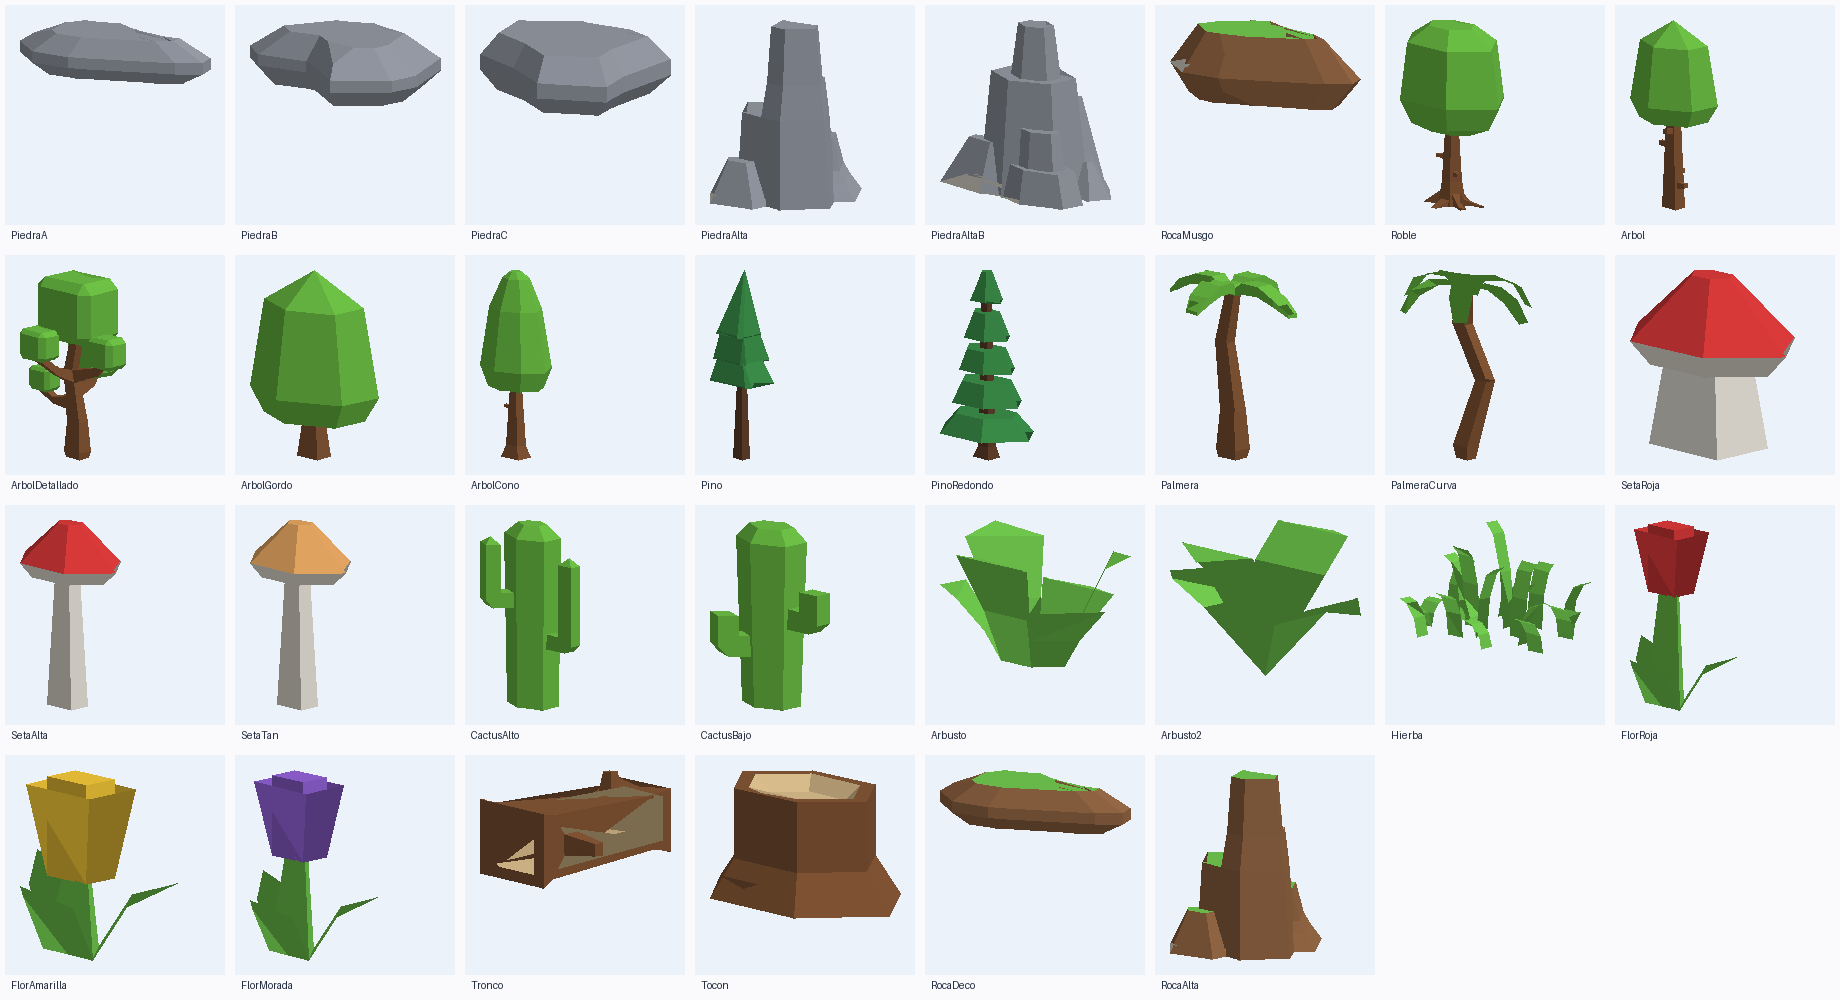
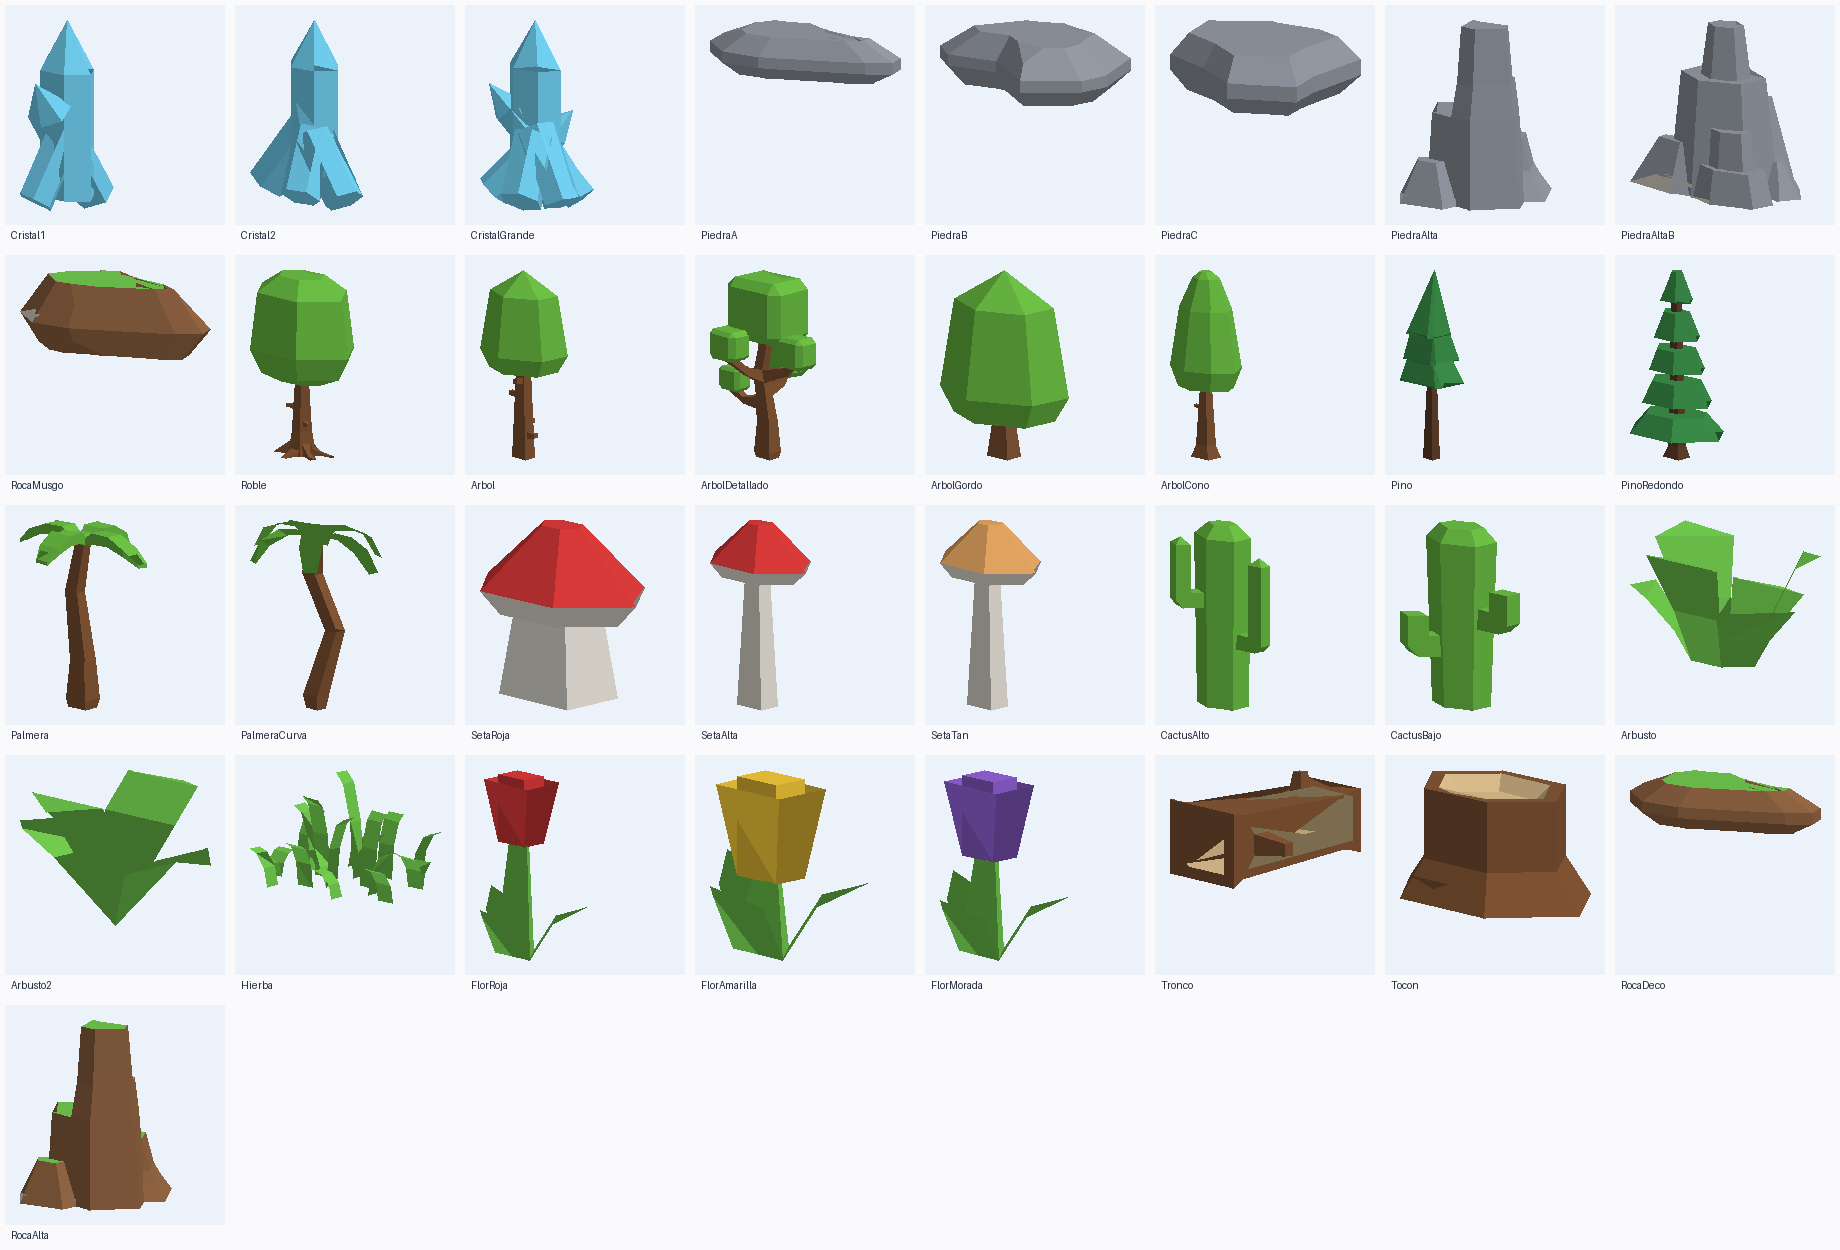
Crías Míticas: vuelven los cristales, ahora en racimos con punta y sin base (modelos 3D y versión de piezas)
Claude-Session: https://claude.ai/code/session_01TK9z3JhdpesQ8a3fbhWHzn

diff --git a/roblox-crias-miticas/tools/modelos/construir_pack.py b/roblox-crias-miticas/tools/modelos/construir_pack.py
@@ -24,8 +24,10 @@ CACHE = os.path.join(RAIZ, "tools", "out", "kenney_nature")
 URL = "https://kenney.nl/media/pages/assets/nature-kit/37ac38a37b-1677698939/kenney_nature-kit.zip"
 ESCALA = 10  # Kenney mide en metros pequeños: ×10 para que en Studio no salgan diminutos (el juego reescala igual)
 
-# alias en el juego → archivo de Kenney
+# alias en el juego → archivo de Kenney (o generado aquí: los cristales)
 MODELOS = {
+    # Cristales que rompen las crías (generados: prismas hexagonales con punta, en racimo)
+    "Cristal1": ("gen", 3, 11), "Cristal2": ("gen", 5, 22), "CristalGrande": ("gen", 7, 33),
     # Rocas que rompen las crías (sustituyen a los cristales)
     "PiedraA": "stone_largeA", "PiedraB": "stone_largeC", "PiedraC": "stone_largeE",
     "PiedraAlta": "stone_tallA", "PiedraAltaB": "stone_tallB", "RocaMusgo": "rock_largeB",
@@ -48,8 +50,34 @@ COLORES = {
     "leafsGreen": (110, 195, 70), "leafsDark": (60, 145, 75), "grass": (115, 205, 80), "dirt": (150, 105, 70),
     "woodBark": (135, 88, 55), "woodBarkDark": (100, 66, 45), "woodInner": (225, 195, 145), "stone": (150, 155, 165),
     "_defaultMat": (240, 235, 225), "colorRed": (225, 60, 60), "colorTan": (235, 170, 100), "colorYellow": (250, 205, 60),
-    "colorPurple": (150, 100, 220),
+    "colorPurple": (150, 100, 220), "crystal": (120, 220, 255),
 }
+
+
+def cristal(n: int, semilla: int):
+    """Racimo de n cristales: prisma de 6 caras + punta, el central más alto, los demás inclinados hacia fuera."""
+    rng = np.random.default_rng(semilla)
+    mallas = []
+    for k in range(n):
+        h = rng.uniform(2.0, 2.4) if k == 0 else rng.uniform(1.2, 1.9)
+        r = 0.45 if k == 0 else rng.uniform(0.28, 0.38)
+        cuerpo = trimesh.creation.cylinder(radius=r, height=h, sections=6)
+        punta = trimesh.creation.cone(radius=r, height=r * 1.8, sections=6)
+        punta.apply_translation([0, 0, h / 2])
+        c = trimesh.util.concatenate([cuerpo, punta])
+        c.apply_translation([0, 0, h / 2])  # base en z = 0
+        c.apply_transform(trimesh.transformations.rotation_matrix(math.radians(-90), [1, 0, 0]))  # z → y (de pie)
+        c.apply_transform(trimesh.transformations.rotation_matrix(rng.uniform(0, math.pi), [0, 1, 0]))
+        if k > 0:
+            ang = k / (n - 1) * 2 * math.pi + rng.uniform(-0.3, 0.3)
+            eje = [math.cos(ang + math.pi / 2), 0, math.sin(ang + math.pi / 2)]
+            c.apply_transform(trimesh.transformations.rotation_matrix(math.radians(rng.uniform(28, 42)), eje))
+            d = rng.uniform(0.6, 0.85)
+            c.apply_translation([math.cos(ang) * d, -0.05, math.sin(ang) * d])
+        mallas.append(c)
+    m = trimesh.util.concatenate(mallas)
+    m.visual = trimesh.visual.TextureVisuals(material=trimesh.visual.material.PBRMaterial(name="crystal", baseColorFactor=[120, 220, 255, 255]))
+    return [("crystal", m)]
 
 
 def descargar() -> str:
@@ -102,7 +130,7 @@ def main():
     fichas = []
     x = 0.0
     for alias, archivo in MODELOS.items():
-        partes = piezas(os.path.join(carpeta, archivo + ".glb"))
+        partes = cristal(archivo[1], archivo[2]) if isinstance(archivo, tuple) else piezas(os.path.join(carpeta, archivo + ".glb"))
         todas = trimesh.util.concatenate([m for _, m in partes])
         mn, mx = todas.bounds
         centro = np.array([(mn[0] + mx[0]) / 2, mn[1], (mn[2] + mx[2]) / 2])  # base en el suelo, centrado

diff --git a/roblox-crias-miticas/CLAUDE.md b/roblox-crias-miticas/CLAUDE.md
@@ -49,8 +49,9 @@ roblox-crias-miticas/
 - **Modelos 3D**: `ServerStorage.Modelos` (lo importa el usuario, `modelos/LEEME.md`) o `Config.MODELS_ASSET_ID` (InsertService).
   Cada modelo «Alias» tiene piezas «Alias__material»; `World.place` los escala, gira y pinta por material y zona (`MAT_COLORS`,
   `ZONE_MATS`). Sin modelos todo sale con piezas básicas. El bot prueba los dos casos (modelos falsos en ServerStorage).
-- Montones = **rocas** (`Workspace.Mundo.Montones`, aspecto en `World.crystal`; con modelos: caja invisible con el modelo dentro
-  y atributo `Radius` para las crías): los crea el servidor (32 por zona, reaparecen a los 6 s). Se eligen tocándolos
+- Montones = **cristales** (el usuario probó rocas y prefirió cristales, 2026-10-26). `Workspace.Mundo.Montones`, aspecto en
+  `World.crystal`: con modelos, racimos «Cristal1/Cristal2/CristalGrande» (generados en `construir_pack.py`) dentro de una caja
+  invisible; sin modelos, cristales de piezas con punta y sin base. Atributo `Radius` para las crías: los crea el servidor (32 por zona, reaparecen a los 6 s). Se eligen tocándolos
   (ClickDetector) o en modo Auto (el más cercano a ≤ 45). Cada segundo restan el poder del equipo; al romperse las monedas
   se reparten según el daño de cada jugador. Al desaparecer un montón se quita el objetivo a todos los que lo picaban.
 - **Montón Dorado**: cada `GOLD_INTERVAL` s (`spawnGold` en el bucle) uno en la isla más alta abierta de cada jugador (sin

diff --git a/roblox-crias-miticas/modelos/LEEME.md b/roblox-crias-miticas/modelos/LEEME.md
@@ -1,6 +1,6 @@
-# Modelos 3D de Crías Míticas (rocas, árboles, setas, palmeras, cactus, flores…)
+# Modelos 3D de Crías Míticas (cristales, árboles, setas, palmeras, cactus, flores…)
 
-Son 30 modelos del **Kenney Nature Kit** (licencia CC0: gratis, también para uso comercial, sin pedir permiso),
+Son 30 modelos del **Kenney Nature Kit** más 3 racimos de cristales hechos para el juego. Los de Kenney tienen licencia CC0 (gratis, también para uso comercial, sin pedir permiso). Todos están
 recoloreados para el juego. El juego los pinta según la zona. Si no están, usa piezas básicas.
 
 ## Importarlos (una sola vez, ~3 minutos)
@@ -12,7 +12,7 @@ recoloreados para el juego. El juego los pinta según la zona. Si no están, usa
 4. En la ventana de importación deja todo como está y pulsa **Importar**. Se suben los modelos a tu cuenta (gratis).
 5. En el **Explorador** aparece `CriasMiticas_Modelos` dentro de **Workspace**. Arrástralo dentro de **ServerStorage**
    y cámbiale el nombre (clic y **F2**) a **`Modelos`** (exactamente así).
-6. Pulsa **Probar ▶**: deberías ver rocas y árboles de verdad. Mándale a Claude una captura.
+6. Pulsa **Probar ▶**: deberías ver cristales y árboles de verdad. Mándale a Claude una captura.
 
 ## Para que no se pierdan con cada versión nueva
 
